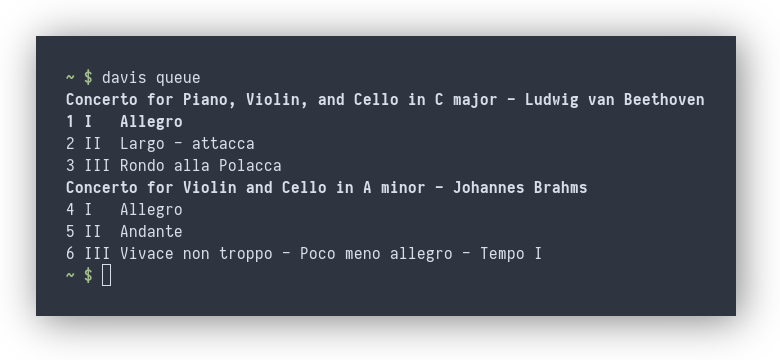
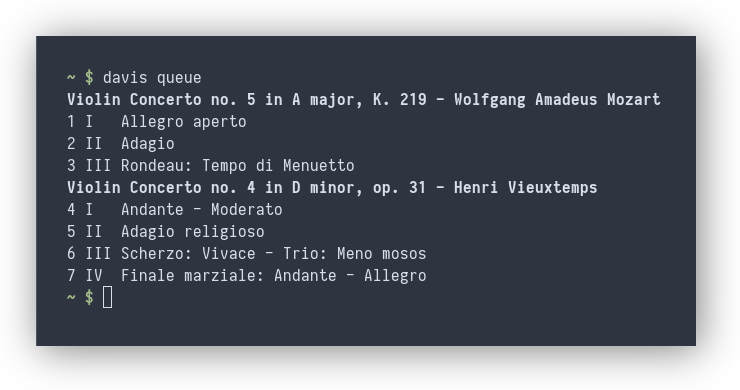
Show davis queue command

Changed region(s): [[0.0311, 0.0917, 0.9635, 0.8861], [0.6216, 0.6722, 0.6838, 0.7333]]

diff --git a/README.md b/README.md
@@ -16,6 +16,10 @@ With a custom subcommand (here [`davis-cur`](subcommands/cur/)), it is also
 possible to display the album art as sixel graphics in the terminal:
 ![screenshot of davis cover](scrots/cur.png)
 
+### Davis understands classical music
+Davis will group your queue by work, and displays movement tags instead of title:
+![screenshot of davis queue](scrots/queue.png)
+
 ### Custom subcommands
 Davis can be extended with custom subcommands (here [`davis-fzf`](subcommands/fzf/)):
 ![screencast of davis fzf](scrots/fzf.webp)
